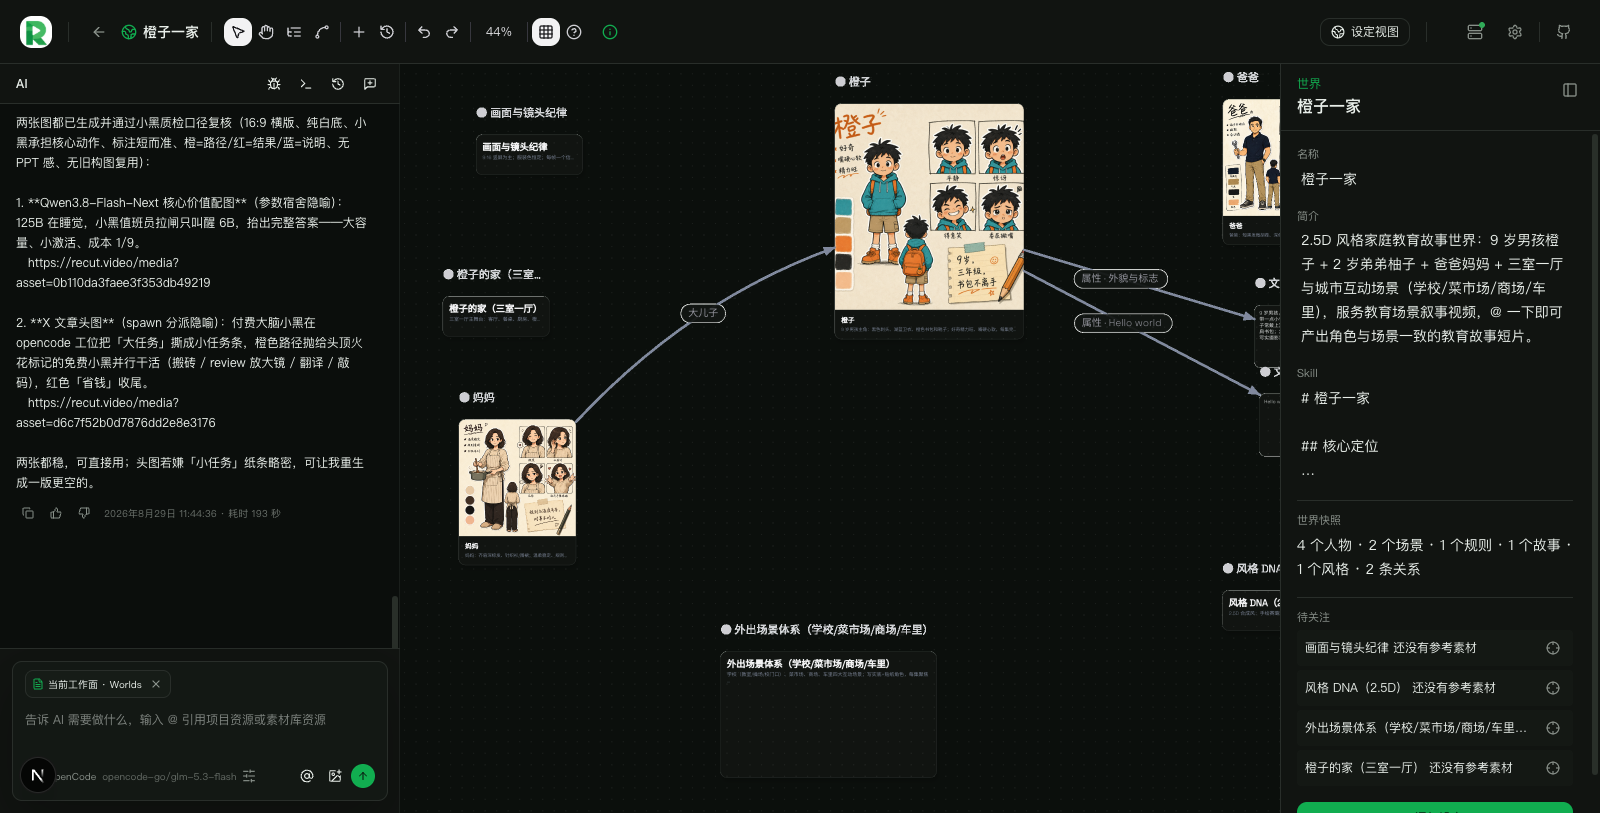
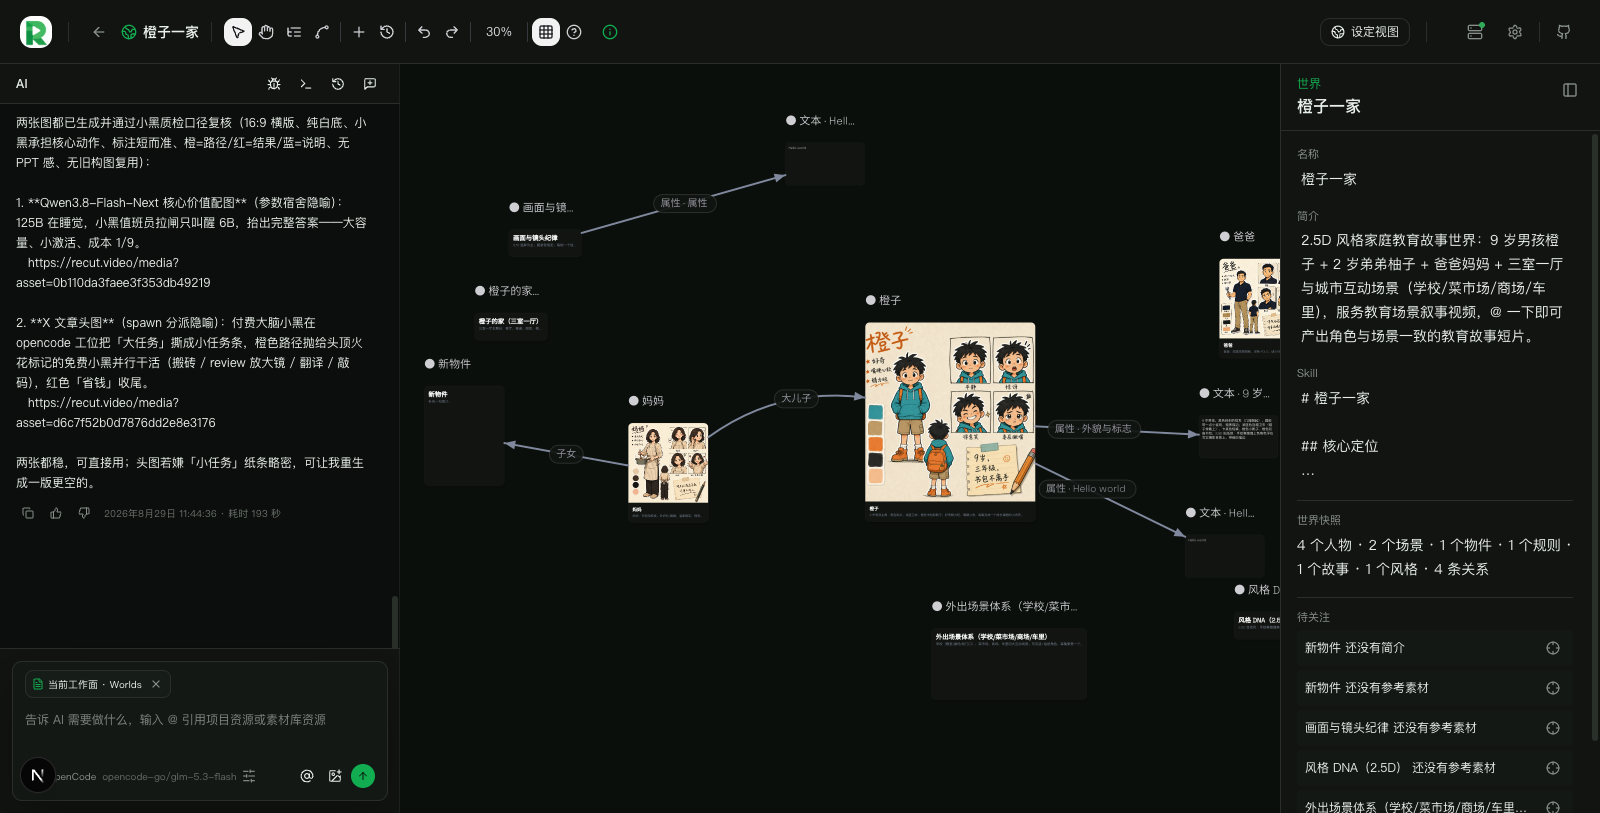
fix(compositor): update blend state to use straight alpha blending for correct rendering

diff --git a/web/lib/pomelo/world-canvas/blocks/vello-world-blocks.ts b/web/lib/pomelo/world-canvas/blocks/vello-world-blocks.ts
@@ -28,8 +28,10 @@ const MIN_W = 240;
 const TITLE_SIZE_TEXT_FIRST = 21;
 const SUBTITLE_SIZE_TEXT_FIRST = 11;
 const TEXT_BLOCK_H = 76;
-// 元素标题徽标（卡片外上方）：屏幕像素恒定
-const CAPTION_GAP = 16;
+// 元素标题徽标（卡片外上方）：屏幕像素恒定。
+// CAPTION_TOP_OFFSET = 徽标文字顶边到卡片上缘的屏幕像素距离（对齐 pixi drawElementCaption 的 CAPTION_Y=-16，
+// 即徽标底边距卡面约 5px）；CAPTION_SIZE = 屏幕字号。
+const CAPTION_TOP_OFFSET = 16;
 const CAPTION_SIZE = 11;
 
 const FONT = 'system-ui, -apple-system, "PingFang SC", sans-serif';

diff --git a/web/lib/pomelo/pomelo-vello-wasm/src/compositor.rs b/web/lib/pomelo/pomelo-vello-wasm/src/compositor.rs
@@ -130,9 +130,11 @@ impl Compositor {
             source: ShaderSource::Wgsl(SHADER.into()),
         });
 
-        // 预乘 alpha 混合（vello 输出为 premultiplied）
+        // straight（未预乘）alpha 混合：vello `render_to_texture` 的目标纹理输出为未预乘 alpha
+        // （fine.wgsl 末尾写目标前做 1/a 反预乘 → `rgba_sep`），必须用 SrcAlpha/OneMinusSrcAlpha。
+        // 若按预乘混合，半透明像素的 rgb（仍是原色，如白边 255）会被直接叠加 → 节点白边、文字发白。
         let blend = BlendState {
-            color: BlendComponent { src_factor: BlendFactor::One, dst_factor: BlendFactor::OneMinusSrcAlpha, operation: BlendOperation::Add },
+            color: BlendComponent { src_factor: BlendFactor::SrcAlpha, dst_factor: BlendFactor::OneMinusSrcAlpha, operation: BlendOperation::Add },
             alpha: BlendComponent { src_factor: BlendFactor::One, dst_factor: BlendFactor::OneMinusSrcAlpha, operation: BlendOperation::Add },
         };
 
